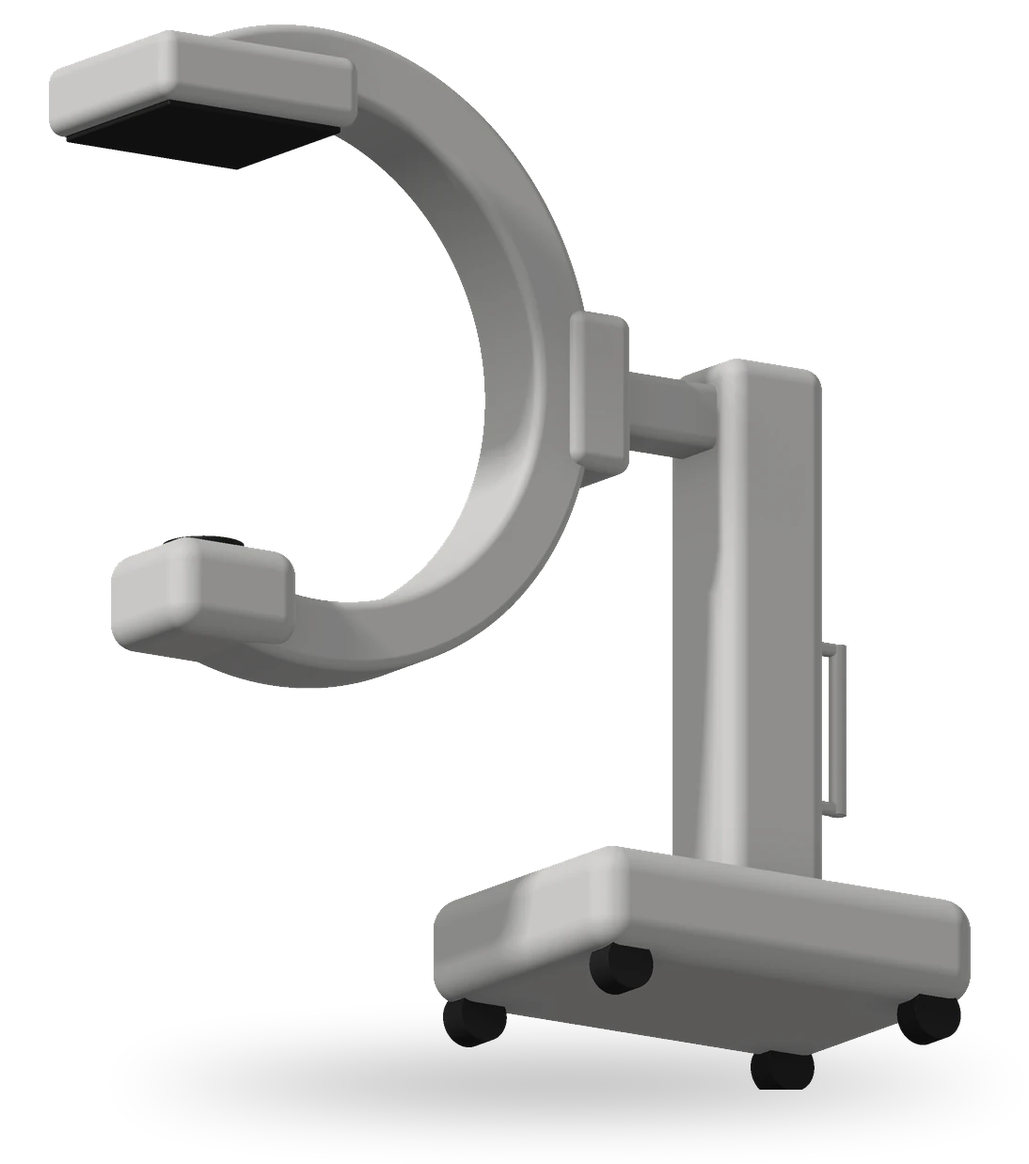
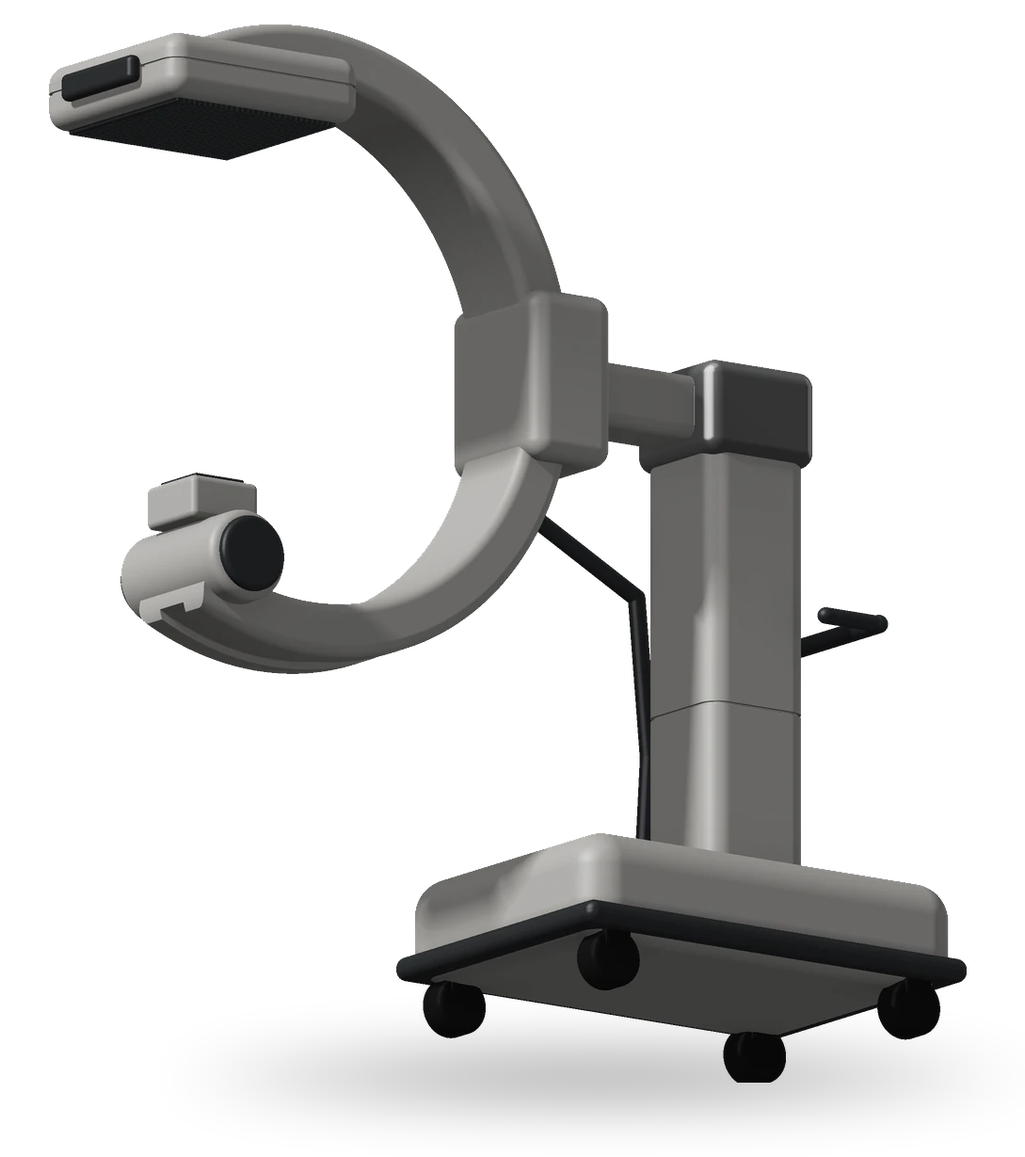
instanosis: gates green, built (prod-2); neuraltrak: hero re-rendered (detector with grid face, tube head and collimator, rail groove, carriage, lift sleeve, cable, castors, painted/plastic/rubber/metal materials)
Claude-Session: https://claude.ai/code/session_014388NEg2mcztQk4tWPwhUK

Changed region(s): [[0.0312, 0.0, 0.9679, 0.9585]]

diff --git a/_kit/src/instanosis.src.html b/_kit/src/instanosis.src.html
@@ -1324,7 +1324,7 @@ function vHome(){
   '<section class="sec light" id="products" data-theme="light"><div class="wrap">'+
    '<div class="shead"><div><span class="lab kick" data-r>Products</span><h2 class="d2 split"><span class="nw">Tests that see</span> <em class="nw">trace amounts.</em></h2></div><p data-r>Our diagnostics are hundreds of times more sensitive than the state of the art, for clinical care, harm reduction, forensic work and clinical trials. Made in the U.S.</p></div>'+
    caps()+
-   '<div class="qual"><span class="lab kick" data-r>Services</span><p class="cr" data-r><span>Lateral-flow development and manufacturing</span><span>Nanobody development</span></p></div>'+
+   '<div class="qual"><span class="lab kick" data-r>Services</span><p class="cr" data-r><span>Lateral-flow development</span><span>Contract manufacturing</span><span>Nanobody development</span></p></div>'+
   '</div></section>'+
 
   '<section class="sec dark" id="applications" data-theme="dark"><div class="wrap">'+
@@ -1334,7 +1334,7 @@ function vHome(){
   '</div></section>'+
 
   '<section class="sec dark2" id="team" data-theme="dark"><div class="wrap">'+
-   '<div class="shead"><div><span class="lab kick" data-r>Team</span><h2 class="d2 split"><span class="nw">Laboratory medicine,</span> <em class="nw">made portable.</em></h2></div><p data-r>A start-up diagnostic company focused on bringing high-performance diagnostics to the patient&#39;s side, starting with the rapid detection of emerging drug substances.</p></div>'+
+   '<div class="shead"><div><span class="lab kick" data-r>Team</span><h2 class="d2 split"><span class="nw">Diagnostics,</span> <em class="nw">made portable.</em></h2></div><p data-r>A start-up diagnostic company focused on bringing high-performance diagnostics to the patient&#39;s side, starting with the rapid detection of emerging drug substances.</p></div>'+
    '<div class="engco">'+
     '<div class="engm"><span class="lab kick" data-r>Leadership</span><ul>'+
      '<li data-r><span class="nm">Dr. Ping Wang</span><span class="lab rl">Co-founder</span></li>'+
@@ -1441,7 +1441,7 @@ function strip(x,id,lab){
 }
 function trScene(o){
   var g='',mob=o.mob,i;
-  g+='<svg class="issc'+(mob?' mob':'')+'" viewBox="'+(mob?'120 18 480 472':'20 18 680 472')+'" aria-hidden="true">';
+  g+='<svg class="issc'+(mob?' mob':'')+'" viewBox="'+(mob?'120 18 480 492':'20 18 680 492')+'" aria-hidden="true">';
   if(!mob)g+='<text class="t" x="40" y="40">LATERAL-FLOW TEST STRIP · SCHEMATIC</text>';
   g+='<path class="cup" d="M236 418H484L472 478H248Z"/><rect class="liq" id="isLq" x="242" y="430" width="236" height="44"/>';
   g+='<g id="isMain">'+strip(332,'isS0','')+'<rect class="fl" id="isFl" x="340" y="450" width="40" height="0"/>'+
@@ -1454,7 +1454,7 @@ function trScene(o){
      '<text class="lb" x="'+(mob?520:510)+'" y="'+(mob?412:404)+'">NG/ML</text></g>';
   g+='<text class="sl" id="isF" x="360" y="118" text-anchor="middle">F</text>';
   var C=mob?["DIP THE STRIP","THE SAMPLE FLOWS","READ BY EYE","F · X · N AT ONCE"]:["DIP: URINE, OR A DISSOLVED SAMPLE","LATERAL FLOW ALONG THE MEMBRANE","CONTROL AND TEST LINES, READ BY EYE","FENTANYL · XYLAZINE · NITAZENE, ONE TEST"];
-  for(i=0;i<4;i++)g+='<text class="cl" id="isC'+i+'" x="'+(mob?140:40)+'" y="'+(mob?488:486)+'">'+C[i]+'</text>';
+  for(i=0;i<4;i++)g+='<text class="cl" id="isC'+i+'" x="'+(mob?140:40)+'" y="'+(mob?504:502)+'">'+C[i]+'</text>';
   return g+'</svg>';
 }
 function scene(){return trScene({mob:MOBILE()?1:0})}

diff --git a/instanosis/index.html b/instanosis/index.html
@@ -1890,7 +1890,7 @@ function vHome(){
   '<section class="sec light" id="products" data-theme="light"><div class="wrap">'+
    '<div class="shead"><div><span class="lab kick" data-r>Products</span><h2 class="d2 split"><span class="nw">Tests that see</span> <em class="nw">trace amounts.</em></h2></div><p data-r>Our diagnostics are hundreds of times more sensitive than the state of the art, for clinical care, harm reduction, forensic work and clinical trials. Made in the U.S.</p></div>'+
    caps()+
-   '<div class="qual"><span class="lab kick" data-r>Services</span><p class="cr" data-r><span>Lateral-flow development and manufacturing</span><span>Nanobody development</span></p></div>'+
+   '<div class="qual"><span class="lab kick" data-r>Services</span><p class="cr" data-r><span>Lateral-flow development</span><span>Contract manufacturing</span><span>Nanobody development</span></p></div>'+
   '</div></section>'+
 
   '<section class="sec dark" id="applications" data-theme="dark"><div class="wrap">'+
@@ -1900,7 +1900,7 @@ function vHome(){
   '</div></section>'+
 
   '<section class="sec dark2" id="team" data-theme="dark"><div class="wrap">'+
-   '<div class="shead"><div><span class="lab kick" data-r>Team</span><h2 class="d2 split"><span class="nw">Laboratory medicine,</span> <em class="nw">made portable.</em></h2></div><p data-r>A start-up diagnostic company focused on bringing high-performance diagnostics to the patient&#39;s side, starting with the rapid detection of emerging drug substances.</p></div>'+
+   '<div class="shead"><div><span class="lab kick" data-r>Team</span><h2 class="d2 split"><span class="nw">Diagnostics,</span> <em class="nw">made portable.</em></h2></div><p data-r>A start-up diagnostic company focused on bringing high-performance diagnostics to the patient&#39;s side, starting with the rapid detection of emerging drug substances.</p></div>'+
    '<div class="engco">'+
     '<div class="engm"><span class="lab kick" data-r>Leadership</span><ul>'+
      '<li data-r><span class="nm">Dr. Ping Wang</span><span class="lab rl">Co-founder</span></li>'+
@@ -2007,7 +2007,7 @@ function strip(x,id,lab){
 }
 function trScene(o){
   var g='',mob=o.mob,i;
-  g+='<svg class="issc'+(mob?' mob':'')+'" viewBox="'+(mob?'120 18 480 472':'20 18 680 472')+'" aria-hidden="true">';
+  g+='<svg class="issc'+(mob?' mob':'')+'" viewBox="'+(mob?'120 18 480 492':'20 18 680 492')+'" aria-hidden="true">';
   if(!mob)g+='<text class="t" x="40" y="40">LATERAL-FLOW TEST STRIP · SCHEMATIC</text>';
   g+='<path class="cup" d="M236 418H484L472 478H248Z"/><rect class="liq" id="isLq" x="242" y="430" width="236" height="44"/>';
   g+='<g id="isMain">'+strip(332,'isS0','')+'<rect class="fl" id="isFl" x="340" y="450" width="40" height="0"/>'+
@@ -2020,7 +2020,7 @@ function trScene(o){
      '<text class="lb" x="'+(mob?520:510)+'" y="'+(mob?412:404)+'">NG/ML</text></g>';
   g+='<text class="sl" id="isF" x="360" y="118" text-anchor="middle">F</text>';
   var C=mob?["DIP THE STRIP","THE SAMPLE FLOWS","READ BY EYE","F · X · N AT ONCE"]:["DIP: URINE, OR A DISSOLVED SAMPLE","LATERAL FLOW ALONG THE MEMBRANE","CONTROL AND TEST LINES, READ BY EYE","FENTANYL · XYLAZINE · NITAZENE, ONE TEST"];
-  for(i=0;i<4;i++)g+='<text class="cl" id="isC'+i+'" x="'+(mob?140:40)+'" y="'+(mob?488:486)+'">'+C[i]+'</text>';
+  for(i=0;i<4;i++)g+='<text class="cl" id="isC'+i+'" x="'+(mob?140:40)+'" y="'+(mob?504:502)+'">'+C[i]+'</text>';
   return g+'</svg>';
 }
 function scene(){return trScene({mob:MOBILE()?1:0})}

diff --git a/_kit/home/instanosis/views.js b/_kit/home/instanosis/views.js
@@ -55,7 +55,7 @@ function vHome(){
   '<section class="sec light" id="products" data-theme="light"><div class="wrap">'+
    '<div class="shead"><div><span class="lab kick" data-r>Products</span><h2 class="d2 split"><span class="nw">Tests that see</span> <em class="nw">trace amounts.</em></h2></div><p data-r>Our diagnostics are hundreds of times more sensitive than the state of the art, for clinical care, harm reduction, forensic work and clinical trials. Made in the U.S.</p></div>'+
    caps()+
-   '<div class="qual"><span class="lab kick" data-r>Services</span><p class="cr" data-r><span>Lateral-flow development and manufacturing</span><span>Nanobody development</span></p></div>'+
+   '<div class="qual"><span class="lab kick" data-r>Services</span><p class="cr" data-r><span>Lateral-flow development</span><span>Contract manufacturing</span><span>Nanobody development</span></p></div>'+
   '</div></section>'+
 
   '<section class="sec dark" id="applications" data-theme="dark"><div class="wrap">'+
@@ -65,7 +65,7 @@ function vHome(){
   '</div></section>'+
 
   '<section class="sec dark2" id="team" data-theme="dark"><div class="wrap">'+
-   '<div class="shead"><div><span class="lab kick" data-r>Team</span><h2 class="d2 split"><span class="nw">Laboratory medicine,</span> <em class="nw">made portable.</em></h2></div><p data-r>A start-up diagnostic company focused on bringing high-performance diagnostics to the patient&#39;s side, starting with the rapid detection of emerging drug substances.</p></div>'+
+   '<div class="shead"><div><span class="lab kick" data-r>Team</span><h2 class="d2 split"><span class="nw">Diagnostics,</span> <em class="nw">made portable.</em></h2></div><p data-r>A start-up diagnostic company focused on bringing high-performance diagnostics to the patient&#39;s side, starting with the rapid detection of emerging drug substances.</p></div>'+
    '<div class="engco">'+
     '<div class="engm"><span class="lab kick" data-r>Leadership</span><ul>'+
      '<li data-r><span class="nm">Dr. Ping Wang</span><span class="lab rl">Co-founder</span></li>'+

diff --git a/_kit/home/instanosis/story.js b/_kit/home/instanosis/story.js
@@ -12,7 +12,7 @@ function strip(x,id,lab){
 }
 function trScene(o){
   var g='',mob=o.mob,i;
-  g+='<svg class="issc'+(mob?' mob':'')+'" viewBox="'+(mob?'120 18 480 472':'20 18 680 472')+'" aria-hidden="true">';
+  g+='<svg class="issc'+(mob?' mob':'')+'" viewBox="'+(mob?'120 18 480 492':'20 18 680 492')+'" aria-hidden="true">';
   if(!mob)g+='<text class="t" x="40" y="40">LATERAL-FLOW TEST STRIP · SCHEMATIC</text>';
   g+='<path class="cup" d="M236 418H484L472 478H248Z"/><rect class="liq" id="isLq" x="242" y="430" width="236" height="44"/>';
   g+='<g id="isMain">'+strip(332,'isS0','')+'<rect class="fl" id="isFl" x="340" y="450" width="40" height="0"/>'+
@@ -25,7 +25,7 @@ function trScene(o){
      '<text class="lb" x="'+(mob?520:510)+'" y="'+(mob?412:404)+'">NG/ML</text></g>';
   g+='<text class="sl" id="isF" x="360" y="118" text-anchor="middle">F</text>';
   var C=mob?["DIP THE STRIP","THE SAMPLE FLOWS","READ BY EYE","F · X · N AT ONCE"]:["DIP: URINE, OR A DISSOLVED SAMPLE","LATERAL FLOW ALONG THE MEMBRANE","CONTROL AND TEST LINES, READ BY EYE","FENTANYL · XYLAZINE · NITAZENE, ONE TEST"];
-  for(i=0;i<4;i++)g+='<text class="cl" id="isC'+i+'" x="'+(mob?140:40)+'" y="'+(mob?488:486)+'">'+C[i]+'</text>';
+  for(i=0;i<4;i++)g+='<text class="cl" id="isC'+i+'" x="'+(mob?140:40)+'" y="'+(mob?504:502)+'">'+C[i]+'</text>';
   return g+'</svg>';
 }
 function scene(){return trScene({mob:MOBILE()?1:0})}

diff --git a/_kit/src/neuraltrak.src.html b/_kit/src/neuraltrak.src.html
@@ -1285,7 +1285,7 @@ function news(){return '<ul class="nws news-l">'+NEWS.map(function(n){
 function vHome(){
   return ''+
   '<section class="hero" id="hero" data-field data-theme="dark">'+
-   '<div class="hero-ph"><figure data-r><img src="hero.webp" width="1094" height="1237" alt="A standard mobile C-arm X-ray system, the kind of machine NeuralTrak software turns into a 3D scanner" decoding="async" fetchpriority="high"></figure></div>'+
+   '<div class="hero-ph"><figure data-r><img src="hero.webp" width="1089" height="1229" alt="A standard mobile C-arm X-ray system, the kind of machine NeuralTrak software turns into a 3D scanner" decoding="async" fetchpriority="high"></figure></div>'+
    '<span class="lab eyebrow" data-r>Low-dose 3D imaging<span class="nomob"> · Los Altos, California</span></span>'+
    '<h1 class="d1 hero-h" id="pageTitle" tabindex="-1"><span class="l nw">See in 3D</span> <span class="l"><em class="nw">with the C-arm</em></span> <span class="l"><em class="nw">you already have.</em></span></h1>'+
    '<div class="hero-foot"><p class="s" data-r>NeuralTrak software turns a standard 2D mobile C-arm into a low-dose 3D scanner, so surgeons get CT-like images in the operating room without buying a CT.</p>'+

diff --git a/neuraltrak/index.html b/neuraltrak/index.html
@@ -1851,7 +1851,7 @@ function news(){return '<ul class="nws news-l">'+NEWS.map(function(n){
 function vHome(){
   return ''+
   '<section class="hero" id="hero" data-field data-theme="dark">'+
-   '<div class="hero-ph"><figure data-r><img src="hero.webp" width="1094" height="1237" alt="A standard mobile C-arm X-ray system, the kind of machine NeuralTrak software turns into a 3D scanner" decoding="async" fetchpriority="high"></figure></div>'+
+   '<div class="hero-ph"><figure data-r><img src="hero.webp" width="1089" height="1229" alt="A standard mobile C-arm X-ray system, the kind of machine NeuralTrak software turns into a 3D scanner" decoding="async" fetchpriority="high"></figure></div>'+
    '<span class="lab eyebrow" data-r>Low-dose 3D imaging<span class="nomob"> · Los Altos, California</span></span>'+
    '<h1 class="d1 hero-h" id="pageTitle" tabindex="-1"><span class="l nw">See in 3D</span> <span class="l"><em class="nw">with the C-arm</em></span> <span class="l"><em class="nw">you already have.</em></span></h1>'+
    '<div class="hero-foot"><p class="s" data-r>NeuralTrak software turns a standard 2D mobile C-arm into a low-dose 3D scanner, so surgeons get CT-like images in the operating room without buying a CT.</p>'+

diff --git a/_kit/home/neuraltrak/views.js b/_kit/home/neuraltrak/views.js
@@ -23,7 +23,7 @@ function news(){return '<ul class="nws news-l">'+NEWS.map(function(n){
 function vHome(){
   return ''+
   '<section class="hero" id="hero" data-field data-theme="dark">'+
-   '<div class="hero-ph"><figure data-r><img src="hero.webp" width="1094" height="1237" alt="A standard mobile C-arm X-ray system, the kind of machine NeuralTrak software turns into a 3D scanner" decoding="async" fetchpriority="high"></figure></div>'+
+   '<div class="hero-ph"><figure data-r><img src="hero.webp" width="1089" height="1229" alt="A standard mobile C-arm X-ray system, the kind of machine NeuralTrak software turns into a 3D scanner" decoding="async" fetchpriority="high"></figure></div>'+
    '<span class="lab eyebrow" data-r>Low-dose 3D imaging<span class="nomob"> · Los Altos, California</span></span>'+
    '<h1 class="d1 hero-h" id="pageTitle" tabindex="-1"><span class="l nw">See in 3D</span> <span class="l"><em class="nw">with the C-arm</em></span> <span class="l"><em class="nw">you already have.</em></span></h1>'+
    '<div class="hero-foot"><p class="s" data-r>NeuralTrak software turns a standard 2D mobile C-arm into a low-dose 3D scanner, so surgeons get CT-like images in the operating room without buying a CT.</p>'+

diff --git a/_kit/home/neuraltrak/render_b.py b/_kit/home/neuraltrak/render_b.py
@@ -1,12 +1,17 @@
 #!/usr/bin/env python3
-"""NeuralTrak hero (PROD_BRIEF 3b, variant B light): a crafted render of a mobile C-arm, the standard 2D X-ray system
-that NeuralTrak's software turns into a 3D scanner (NSF SBIR 2433137 / 2604163: "transforming any 2D mobile C-arm into a
-3D scanner using software alone"; validated on image-intensifier and flat-panel C-arms). Generic and unbranded, no
-lettering: wheeled base, column, horizontal arm, the C with the X-ray tube at the bottom and a flat-panel detector at
-the top; the C opens toward the headline (left). Medical off-white paint, dark grey detector and tube faces.
-Light: one soft key from the upper left (headline side), a low neutral fill, a dim rim on the far right; no glow.
-A faint soft floor shadow is baked into the transparent pad. Ray-marched SDFs in numpy, orthographic, real alpha.
-Usage: python3 render_b.py SIZE out.webp [SS]"""
+"""NeuralTrak hero (PROD_BRIEF 3b, variant B light), v2 after the coordinator's review ("reads as a grey clay toy"):
+a photoreal render of a generic mobile C-arm, the standard 2D X-ray system NeuralTrak's software turns into a 3D
+scanner (NSF SBIR 2433137 / 2604163: "transforming any 2D mobile C-arm into a 3D scanner using software alone";
+validated on image-intensifier and flat-panel C-arms). Unbranded, no lettering.
+Parts: wheeled base with bumper strip, rubber castors and a push handle; a column with a satin-metal lift sleeve and a
+seam; the horizontal arm; the orbital carriage clamped on the C; the C with a deep section, rounded edges and the
+orbital rail groove on its outer face; at the top end the flat-panel detector (bevelled housing, seam line, dark
+grid-textured entrance face, side grips); at the bottom end the X-ray tube head (cylindrical housing with end caps and
+a collimator box with a dark face); a cable loop from the carriage down the column.
+Materials: off-white painted metal with a clear coat (diffuse plus a soft specular and fresnel reflection), dark
+grey plastic, black rubber, satin aluminium. Light: one soft key from the upper left (headline side), a low neutral
+fill, a dim rim on the far right; no glow. A faint soft floor shadow is baked into the transparent pad. Ray-marched
+SDFs in numpy, orthographic, real alpha. Usage: python3 render_b.py SIZE out.webp [SS]"""
 import sys, math, numpy as np
 from PIL import Image, ImageFilter
 N = int(sys.argv[1]) if len(sys.argv) > 1 else 600
@@ -15,62 +20,92 @@ SS = int(sys.argv[3]) if len(sys.argv) > 3 else 1
 def n3(v): v = np.array(v, float); return v / np.linalg.norm(v)
 def nrm(v): return v / np.maximum(np.linalg.norm(v, axis=-1, keepdims=True), 1e-9)
 def sm(a, b, x): x = np.clip((x - a) / (b - a), 0, 1); return x * x * (3 - 2 * x)
-TH, PH_ = math.radians(-34), math.radians(14)          # turn toward the viewer, look slightly down
+TH, PH_ = math.radians(-36), math.radians(13)
 cy_, sy_ = math.cos(TH), math.sin(TH); cx_, sx_ = math.cos(PH_), math.sin(PH_)
 def toobj(p):
     x, y, z = p[..., 0], p[..., 1], p[..., 2]
-    y, z = y * cx_ - z * sx_, y * sx_ + z * cx_          # undo the tilt
-    x, z = x * cy_ + z * sy_, -x * sy_ + z * cy_         # undo the turn
+    y, z = y * cx_ - z * sx_, y * sx_ + z * cx_
+    x, z = x * cy_ + z * sy_, -x * sy_ + z * cy_
     return x, y, z
 def rbox(x, y, z, c, h, r=0.02):
     qx, qy, qz = np.abs(x - c[0]) - h[0] + r, np.abs(y - c[1]) - h[1] + r, np.abs(z - c[2]) - h[2] + r
     o = np.sqrt(np.maximum(qx, 0) ** 2 + np.maximum(qy, 0) ** 2 + np.maximum(qz, 0) ** 2)
     return o + np.minimum(np.maximum(qx, np.maximum(qy, qz)), 0) - r
-def cylz(x, y, z, c, r, hz):   # cylinder along z
-    d1 = np.hypot(x - c[0], y - c[1]) - r; d2 = np.abs(z - c[2]) - hz
-    return np.minimum(np.maximum(d1, d2), 0) + np.hypot(np.maximum(d1, 0), np.maximum(d2, 0))
-def cyly(x, y, z, c, r, hy):   # cylinder along y
-    d1 = np.hypot(x - c[0], z - c[2]) - r; d2 = np.abs(y - c[1]) - hy
-    return np.minimum(np.maximum(d1, d2), 0) + np.hypot(np.maximum(d1, 0), np.maximum(d2, 0))
+def cyl(a, b, h, c, r, hh, rr=0.0):   # cylinder along the third axis given as (a,b)=radial coords, h=axial coord
+    d1 = np.hypot(a - c[0], b - c[1]) - r + rr; d2 = np.abs(h - c[2]) - hh + rr
+    return np.minimum(np.maximum(d1, d2), 0) + np.hypot(np.maximum(d1, 0), np.maximum(d2, 0)) - rr
+def capsule(x, y, z, a, b, r):
+    pa = np.stack([x - a[0], y - a[1], z - a[2]], -1); ba = np.array(b) - np.array(a)
+    h = np.clip((pa @ ba) / (ba @ ba), 0, 1)
+    return np.linalg.norm(pa - h[..., None] * ba, axis=-1) - r
 CX, CY, R = -0.20, 0.14, 0.54
-A0, A1 = math.radians(112), math.radians(248)          # the gap of the C, facing left
-XB = CX + R * math.cos(A0)                             # beam line x (ends sit on it)
+A0, A1 = math.radians(110), math.radians(250)
+XB = CX + R * math.cos(A0)
+YT, YB = CY + R * math.sin(A0), CY + R * math.sin(A1)
+# cable path: from the carriage, a loop down the back of the column to the base
+CAB = [(CX + R + 0.13, CY - 0.06, -0.10), (0.48, -0.06, -0.15), (0.70, -0.18, -0.14), (0.72, -0.48, -0.13), (0.70, -0.70, -0.12)]
 def parts(p):
     x, y, z = toobj(p)
     qx, qy = x - CX, y - CY
     a = np.arctan2(qy, qx) % (2 * math.pi)
-    dr = np.hypot(qx, qy) - R
-    sec = np.hypot(np.maximum(np.abs(dr) - 0.045, 0), np.maximum(np.abs(z) - 0.075, 0)) + np.minimum(np.maximum(np.abs(dr) - 0.045, np.abs(z) - 0.075), 0) - 0.02
+    rr = np.hypot(qx, qy); dr = rr - R
+    HR, HZ, RD = 0.05, 0.10, 0.022
+    ex, ez = np.abs(dr) - HR + RD, np.abs(z) - HZ + RD
+    sec = np.hypot(np.maximum(ex, 0), np.maximum(ez, 0)) + np.minimum(np.maximum(ex, ez), 0) - RD
+    groove = np.hypot(np.maximum(np.abs(dr - HR) - 0.012, 0), np.maximum(np.abs(z) - 0.035, 0)) - 0.002
+    sec = np.maximum(sec, -groove)                                    # orbital rail groove on the outer face
     ingap = (a > A0) & (a < A1)
-    e0 = np.array((CX + R * math.cos(A0), CY + R * math.sin(A0))); e1 = np.array((CX + R * math.cos(A1), CY + R * math.sin(A1)))
+    e0 = (CX + R * math.cos(A0), CY + R * math.sin(A0)); e1 = (CX + R * math.cos(A1), CY + R * math.sin(A1))
     dend = np.minimum(np.hypot(x - e0[0], y - e0[1]), np.hypot(x - e1[0], y - e1[1]))
-    arc = np.where(ingap, np.maximum(sec, dend - 0.065), sec)
-    det = rbox(x, y, z, (XB, CY + R * math.sin(A0) - 0.04, 0), (0.22, 0.065, 0.20), 0.03)
-    detf = rbox(x, y, z, (XB, CY + R * math.sin(A0) - 0.108, 0), (0.19, 0.008, 0.17), 0.004)
-    tube = rbox(x, y, z, (XB, CY + R * math.sin(A1) + 0.01, 0), (0.14, 0.09, 0.13), 0.05)
-    tubf = cyly(x, y, z, (XB, CY + R * math.sin(A1) + 0.105, 0), 0.075, 0.01)
-    car = rbox(x, y, z, (CX + R + 0.07, CY, 0), (0.07, 0.15, 0.11), 0.03)
-    arm = rbox(x, y, z, ((CX + R + 0.12 + 0.70) / 2, CY, 0), ((0.70 - CX - R - 0.12) / 2 + 0.02, 0.06, 0.065), 0.02)
-    col = rbox(x, y, z, (0.80, -0.30, 0), (0.11, 0.55, 0.11), 0.04)
-    base = rbox(x, y, z, (0.70, -0.86, 0), (0.42, 0.10, 0.30), 0.06)
+    arc = np.where(ingap, np.maximum(sec, dend - 0.07), sec)
+    # flat-panel detector at the top end
+    dy0 = YT - 0.055
+    det = rbox(x, y, z, (XB, dy0, 0), (0.215, 0.06, 0.205), 0.035)
+    detseam = np.abs(y - (dy0 + 0.005)) - 0.003                       # seam line around the housing
+    det = np.maximum(det, -np.maximum(detseam, -(det + 0.006)))
+    detf = rbox(x, y, z, (XB, dy0 - 0.062, 0), (0.18, 0.006, 0.17), 0.004)
+    grip = np.minimum(rbox(x, y, z, (XB - 0.23, dy0, 0), (0.014, 0.025, 0.11), 0.012), rbox(x, y, z, (XB + 0.23, dy0, 0), (0.014, 0.025, 0.11), 0.012))
+    # X-ray tube head at the bottom end: a cylindrical housing along z with end caps, collimator box on top
+    ty0 = YB + 0.07
+    tube = cyl(x, y, z, (XB, ty0, 0), 0.085, 0.15, 0.02)
+    caps = cyl(x, y, z, (XB, ty0, 0), 0.07, 0.165, 0.01)
+    coll = rbox(x, y, z, (XB, ty0 + 0.115, 0), (0.075, 0.04, 0.075), 0.012)
+    collf = rbox(x, y, z, (XB, ty0 + 0.158, 0), (0.055, 0.005, 0.055), 0.003)
+    # orbital carriage clamped around the C at the back
+    car = rbox(x, y, z, (CX + R + 0.02, CY, 0), (0.09, 0.16, 0.14), 0.035)
+    arm = rbox(x, y, z, ((CX + R + 0.10 + 0.70) / 2, CY, 0), ((0.70 - CX - R - 0.10) / 2 + 0.02, 0.06, 0.07), 0.025)
+    col = rbox(x, y, z, (0.80, -0.32, 0), (0.11, 0.53, 0.11), 0.04)
+    slv = rbox(x, y, z, (0.80, CY - 0.005, 0), (0.122, 0.09, 0.122), 0.03)  # lift sleeve
+    colseam = np.abs(y + 0.42) - 0.003
+    col = np.maximum(col, -np.maximum(colseam, -(col + 0.006)))
+    base = rbox(x, y, z, (0.70, -0.84, 0), (0.42, 0.10, 0.30), 0.07)
+    bump = rbox(x, y, z, (0.70, -0.905, 0), (0.43, 0.022, 0.31), 0.02)
     wh = 9.0
     for wx in (0.36, 1.04):
         for wz in (-0.24, 0.24):
-            wh = np.minimum(wh, cylz(x, y, z, (wx, -0.98, wz), 0.05, 0.03))
-    hnd = cyly(x, y, z, (1.00, -0.40, 0), 0.016, 0.16)
-    hb = np.minimum(rbox(x, y, z, (0.96, -0.25, 0), (0.05, 0.012, 0.012), 0.008), rbox(x, y, z, (0.96, -0.55, 0), (0.05, 0.012, 0.012), 0.008))
-    white = np.minimum.reduce([arc, det, tube, car, arm, col, base, np.minimum(hnd, hb)])
-    dark = np.minimum.reduce([detf, tubf, wh])
-    return white, dark
+            wh = np.minimum(wh, cyl(x, y, z, (wx, -0.975, wz), 0.055, 0.03, 0.012))
+            wh = np.minimum(wh, rbox(x, y, z, (wx, -0.93, wz), (0.03, 0.03, 0.035), 0.01))
+    hnd = np.minimum.reduce([capsule(x, y, z, (1.03, -0.24, -0.16), (1.03, -0.24, 0.16), 0.017),
+                             capsule(x, y, z, (0.91, -0.24, -0.16), (1.03, -0.24, -0.16), 0.015),
+                             capsule(x, y, z, (0.91, -0.24, 0.16), (1.03, -0.24, 0.16), 0.015)])
+    cab = 9.0
+    for i in range(len(CAB) - 1):
+        cab = np.minimum(cab, capsule(x, y, z, CAB[i], CAB[i + 1], 0.016))
+    paint = np.minimum.reduce([arc, det, tube, coll, car, arm, col, base])
+    dark = np.minimum.reduce([detf, collf, grip, caps, hnd, cab, bump])
+    rub = wh
+    metal = slv
+    return paint, dark, rub, metal
 def sdf(p, want_id=False):
-    w, d = parts(p)
-    if want_id: return np.minimum(w, d), np.where(d < w, 2, 1)
-    return np.minimum(w, d)
+    P = parts(p); d = np.minimum.reduce(P)
+    if want_id: return d, np.argmin(np.stack(P), 0)
+    return d
 def env(dv):
     key = np.clip(dv @ n3((-0.62, 0.62, 0.48)), 0, 1)
-    c = 0.02 + 0.9 * sm(0.62, 0.93, key)
-    c += 0.25 * sm(0.80, 0.97, np.clip(dv @ n3((0.80, 0.25, -0.55)), 0, 1))
-    c += 0.06 * sm(-0.2, 0.9, dv[..., 1])
+    c = 0.02 + 1.1 * sm(0.70, 0.95, key) + 0.08 * key ** 3
+    c += 0.30 * sm(0.80, 0.97, np.clip(dv @ n3((0.80, 0.25, -0.55)), 0, 1))
+    c += 0.45 * sm(0.85, 0.98, np.clip(dv @ n3((-0.1, 0.95, 0.1)), 0, 1))     # overhead strip box
+    c += 0.05 * sm(-0.2, 0.9, dv[..., 1])
     return c
 Rr = N * SS
 xs = np.linspace(-1, 1, Rr)
@@ -78,44 +113,57 @@ X, Y = np.meshgrid(xs * 1.12 + 0.18, -xs * 1.12 - 0.06)
 O = np.stack([X, Y, np.full_like(X, 4.0)], -1).reshape(-1, 3)
 D = np.array((0, 0, -1.0))
 t = np.zeros(len(O)); hit = np.zeros(len(O), bool); alive = np.ones(len(O), bool)
-for it in range(220):
+for it in range(260):
     idx = np.where(alive)[0]
     if len(idx) == 0: break
-    d = sdf(O[idx] + t[idx, None] * D) * 0.8
+    d = sdf(O[idx] + t[idx, None] * D) * 0.75
     t[idx] += d
-    h = d < 2e-4; hit[idx[h]] = True; alive[idx[h]] = False
+    h = d < 1.5e-4; hit[idx[h]] = True; alive[idx[h]] = False
     alive[idx[t[idx] > 8]] = False
 P = O + t[:, None] * D
 hi = np.where(hit)[0]; ph = P[hi]
 _, mid = sdf(ph, True)
-e = 6e-4
+e = 5e-4
 n = nrm(np.stack([sdf(ph + (e, 0, 0)) - sdf(ph - (e, 0, 0)), sdf(ph + (0, e, 0)) - sdf(ph - (0, e, 0)), sdf(ph + (0, 0, e)) - sdf(ph - (0, 0, e))], -1))
+# a fine grid texture on the detector entrance face (dark material, facing down)
+gx, gy, gz = toobj(ph)
+onface = (mid == 1) & (np.abs(gy - (YT - 0.055 - 0.068)) < 0.008) & (np.abs(gx - XB) < 0.175)
 refl = D - 2 * (n @ D)[:, None] * n
 L = n3((-0.62, 0.62, 0.48))
 lam = np.clip(n @ L, 0, 1)
 fill = np.clip(n @ n3((0.7, -0.1, 0.7)), 0, 1)
 rim = sm(0.55, 0.9, np.clip(n @ n3((0.85, 0.2, -0.5)), 0, 1))
-fres = 0.04 + 0.96 * (1 - np.clip(-(n @ D), 0, 1)) ** 5
-# soft ambient occlusion: march a few steps along the normal
+ndv = np.clip(-(n @ D), 0, 1)
+fres = 0.04 + 0.96 * (1 - ndv) ** 5
+hv = nrm(L - D)
+spec = np.clip(n @ hv, 0, 1)
 ao = np.ones(len(hi))
-for k, hstep in enumerate((0.02, 0.05, 0.09, 0.14)):
-    ao -= (hstep - sdf(ph + n * hstep)).clip(0) * (1.6 / (k + 1))
-ao = np.clip(ao, 0.35, 1)
-# self-shadow from the key light (coarse)
+for k, hstep in enumerate((0.015, 0.04, 0.08, 0.13)):
+    ao -= (hstep - sdf(ph + n * hstep)).clip(0) * (1.5 / (k + 1))
+ao = np.clip(ao, 0.3, 1)
 sh = np.ones(len(hi)); tt = np.full(len(hi), 0.02)
-for it in range(40):
+for it in range(48):
     dd = sdf(ph + n * 0.004 + tt[:, None] * L)
-    sh = np.minimum(sh, np.clip(10 * dd / tt, 0, 1)); tt += np.clip(dd, 0.01, 0.12)
-sh = 0.35 + 0.65 * sh
-paint = (0.22 + 0.80 * lam * sh + 0.14 * fill + 0.12 * rim) * ao + (0.06 + 0.25 * fres) * env(refl)
-darkm = (0.03 + 0.07 * lam * sh + 0.02 * fill) * ao + (0.05 + 0.35 * fres) * env(refl)
-c = np.where(mid == 1, paint, darkm)
-col = np.zeros(len(O)); col[hi] = c
-img = np.clip(col, 0, 1.4).reshape(Rr, Rr)
-img = 1 - np.exp(-img * 1.7)
+    sh = np.minimum(sh, np.clip(12 * dd / tt, 0, 1)); tt += np.clip(dd, 0.008, 0.1)
+sh = 0.30 + 0.70 * sh
+E = env(refl)
+def rgb(c): return np.array(c, float)[None, :]
+# painted metal: warm off-white base, clear-coat reflection
+pb = rgb((0.86, 0.85, 0.82))
+paint = pb * ((0.16 + 0.78 * lam * sh + 0.12 * fill + 0.10 * rim) * ao)[:, None] + ((0.04 + 0.30 * fres) * E + 0.25 * spec ** 60 * sh)[:, None]
+dk = rgb((0.10, 0.105, 0.11))
+dark = dk * ((0.35 + 0.9 * lam * sh + 0.2 * fill) * ao)[:, None] + ((0.05 + 0.4 * fres) * E + 0.18 * spec ** 30 * sh)[:, None]
+rub = rgb((0.05, 0.05, 0.05)) * ((0.4 + 0.7 * lam * sh) * ao)[:, None] + ((0.02 + 0.15 * fres) * E)[:, None]
+mt = rgb((0.72, 0.73, 0.74))
+metal = mt * ((0.12 + 0.35 * lam * sh) * ao)[:, None] + ((0.55 * E + 0.3 * spec ** 20 * sh) * ao)[:, None]
+grid = (np.abs(np.sin(gx * 260)) > 0.93) | (np.abs(np.sin(gz * 260)) > 0.93)
+dark = np.where((onface & grid)[:, None], dark * 1.5 + 0.015, dark)
+c = np.where((mid == 0)[:, None], paint, np.where((mid == 1)[:, None], dark, np.where((mid == 2)[:, None], rub, metal)))
+col = np.zeros((len(O), 3)); col[hi] = c
+img = col.reshape(Rr, Rr, 3)
+img = 1 - np.exp(-np.clip(img, 0, 3) * 1.65)
 alpha = hit.reshape(Rr, Rr).astype(float)
-rgb = np.stack([img * 1.0, img * 0.995, img * 0.985], -1)
-im = Image.fromarray((np.dstack([rgb, alpha]) * 255).clip(0, 255).astype(np.uint8), 'RGBA')
+im = Image.fromarray((np.dstack([img, alpha]) * 255).clip(0, 255).astype(np.uint8), 'RGBA')
 if SS > 1:
     pm = np.array(im).astype(float); pm[..., :3] *= pm[..., 3:] / 255
     pm = np.array(Image.fromarray(pm.astype(np.uint8), 'RGBA').resize((N, N), Image.LANCZOS)).astype(float)
@@ -129,9 +177,9 @@ cols = [x for x in range(W) if al[:, x].any()]
 bot = max(np.where(al[:, x])[0].max() for x in cols)
 yy, xx = np.mgrid[0:PHh, 0:PW]
 x0, x1 = min(cols) + PL, max(cols) + PL
-ell = ((xx - (x0 + x1) / 2 - W * .06) / ((x1 - x0) * .5)) ** 2 + ((yy - (bot + PT - H * .005)) / (H * .035)) ** 2
+ell = ((xx - (x0 + x1) / 2 - W * .10) / ((x1 - x0) * .48)) ** 2 + ((yy - (bot + PT - H * .005)) / (H * .035)) ** 2
 s_im = Image.fromarray((np.clip(1 - ell, 0, 1) * 255).astype(np.uint8)).filter(ImageFilter.GaussianBlur(PW * .025))
-sa = np.array(s_im).astype(np.float32) / 255 * .32
+sa = np.array(s_im).astype(np.float32) / 255 * .34
 cv = Image.fromarray(np.dstack([np.zeros((PHh, PW, 3)), sa * 255]).astype(np.uint8), 'RGBA')
 cv.alpha_composite(im, (PL, PT))
 cv.save(OUT, quality=90, method=6) if OUT.endswith('.webp') else cv.save(OUT)
